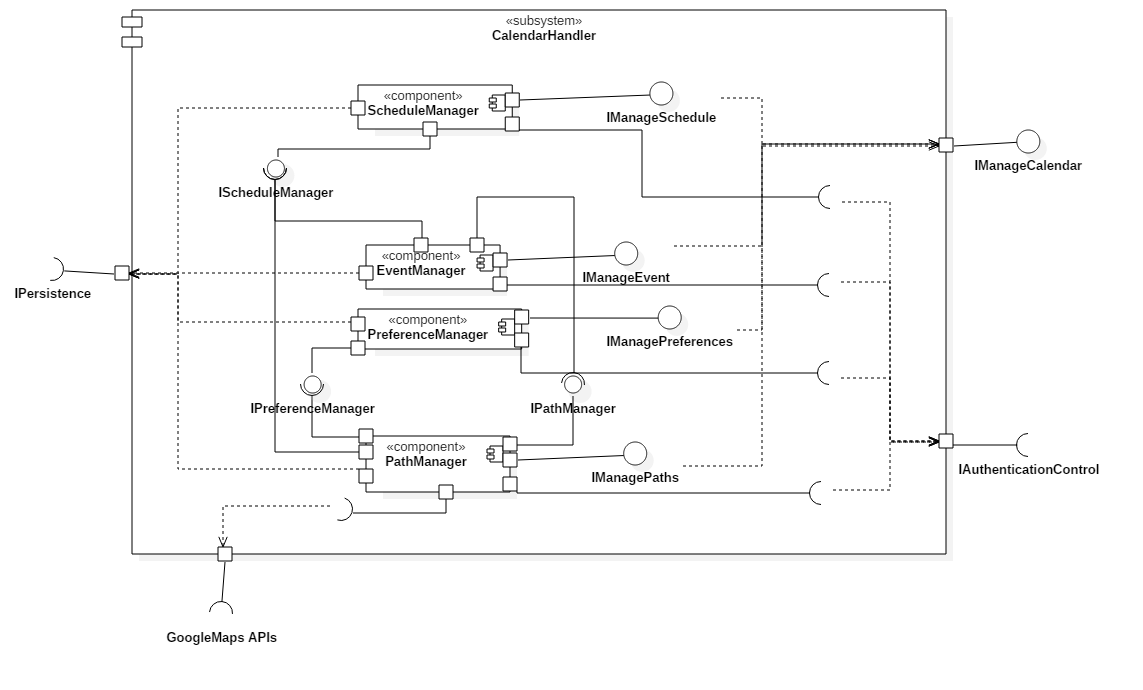
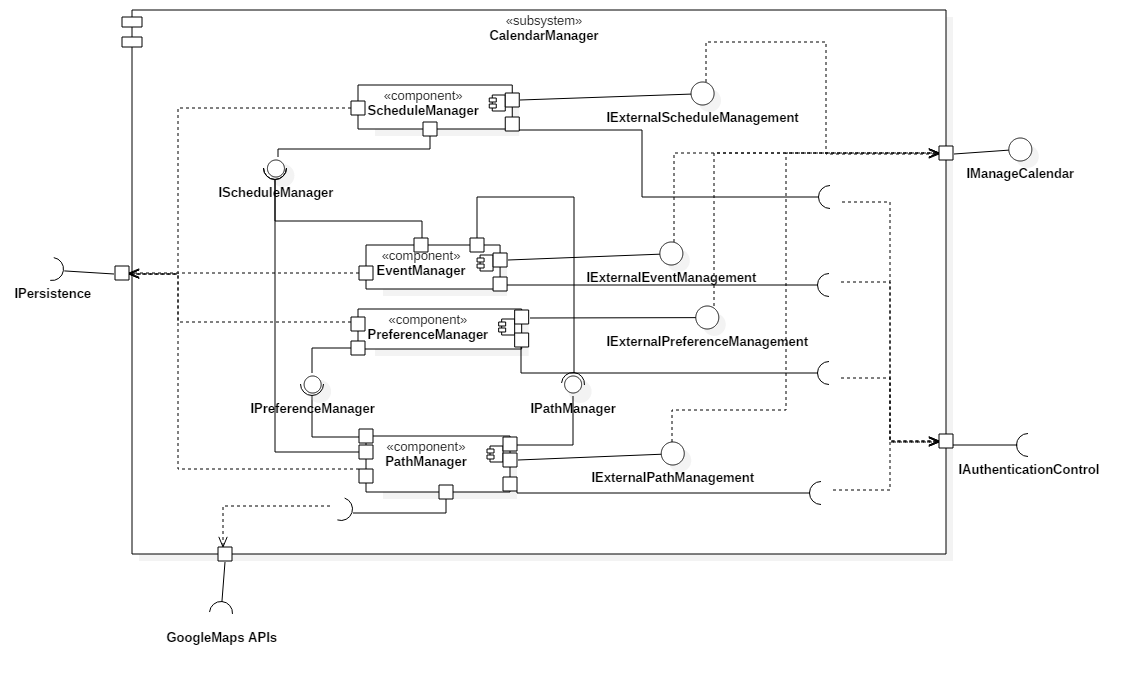
I&T diagrams

diff --git a/DD/6-ImplementationIntegrationTestPlan/implementation_integration_test_plan.tex b/DD/6-ImplementationIntegrationTestPlan/implementation_integration_test_plan.tex
@@ -5,7 +5,7 @@ These are the main steps of the implementations we want to follow to reach Travl
 \textbf{server side}:
 \end{large}
 \begin{enumerate}
-\item CalendarManager (AuthenticationManager, PathManager, EventManager, ScheduleManager) and PersistenceManager are the core of our system and so they are the first to be implemented among with their sub components. In particular in this phase the user will not be able to edit his travels but he can only visualize the proposed ones;
+\item CalendarManager (AuthenticationManager, PathManager, EventManager, ScheduleManager, but not PreferenceManager), PersistenceManager and AuthenticationManager are the core of our system and so they are the first to be implemented among with their sub components. In particular in this phase the user will not be able to edit his travels but he can only visualize the proposed ones;
 \item PreferenceManager will be inserted in a second release in order to filter the user paths and doing so will be added functionalities in order to allow the user to edit and choose the travels he prefer from the feasible ones proposed to him;
 \item ComplicationManager will be added together with the NotificationManager in order to discover if a users travel is no more feasible and notify him.
 \item TripManager will be the last module to be implemented, allowing the user to arrange his trips.
@@ -44,16 +44,119 @@ On Application Server side:
 \end{itemize}
 On client side (App Mobile):
 \begin{itemize}
-	\item DBManager needs to be integrated with the localDatabase;
+	\item DBManager needs to be integrated with the LocalDatabase;
 	\item ApplicationController, GUIManager and DBManager needs to be integrated together;
 \end{itemize}
 On web server side WebController and JavaServerPages needs to be integrated together.
 All the interactions that single components have with external services APIs have to be tested and their correctness have to be guaranteed before integrate and test phase involving those components begins.
 
 \section{Integration Testing Strategy}
-The integration testing strategy we will adopt will be defined in two different phases, according to the  implementation plan:
+The integration testing strategy we will adopt will be defined by a mix of two strategies and according to the  implementation plan:
 The first strategy we are going to use is based on a \textbf{bottom-up approach}. This choice will allow us to start from the less-dependent components and then climb the "uses" hierarchy, through the use of proper drivers. The bottom-up approach will enable us to follow the implementation plan, that follow the same approach. doing so we will improve the efficiency and the parallelism of the development process. \newline
-Once our system reach the first release milestone we will use a \textbf{thread approach} in order to integrate the the new functionalities with the already tested core thread of our system. We made this second choice because once we add new functionalities into the system they will provide additional user-visible program features that is the very definition of thread (in this context). 
-\section{Sequence of Components integration}
+The bottom-up strategy will be mixed with a \textbf{critical-module-first approach}, in order to start the integration and testing of the most critical module of our system, CalendarManager. We've considered also this second strategy in order to avoid issues related to core components of our system and threats to the correct behavior of our system, especially to guarantee the absence of failures or bugs that could prevent the users to correctly take advantage of our platform and its functionalities.
 
-\todo{TODO}
+\section{Sequence of Components integration}
+The following subsections aim to describe the order in which Travlendar+ will have to be integrated and tested. We will use as notation an arrow going from component A to component B means that component A is necessary to component B and so it must have been already implemented before performing the integration.
+
+\subsection{Software integration Sequence}
+Since our system rely on some external systems and interact with theirs external interfaces (APIs) we will assume that those system are already proper tested.
+\subsubsection{PersistenceManager}
+\begin{figure}[H]
+	\begin{center}
+		\includegraphics[scale=0.7]{implementation_and_testing/persistence.png}
+	\end{center}
+	\caption{I\&T-PersistenceManager}
+\end{figure}
+with db
+
+\subsubsection{AuthenticationManager}
+\begin{figure}[H]
+	\begin{center}
+		\includegraphics[scale=0.7]{implementation_and_testing/authentication.png}
+	\end{center}
+	\caption{I\&T-AuthenticationManager}
+\end{figure}
+with PersistenceManager
+
+\subsubsection{CalendarManager}
+\begin{figure}[H]
+	\begin{center}
+		\includegraphics[scale=0.7]{implementation_and_testing/calendar_manager/preference.png}
+	\end{center}
+	\caption{I\&T-PreferenceManager}
+\end{figure}
+
+\begin{figure}[H]
+	\begin{center}
+		\includegraphics[scale=0.7]{implementation_and_testing/calendar_manager/schedule.png}
+	\end{center}
+	\caption{I\&T-ScheduleManager}
+\end{figure}
+
+\begin{figure}[H]
+	\begin{center}
+		\includegraphics[scale=0.7]{implementation_and_testing/calendar_manager/path.png}
+	\end{center}
+	\caption{I\&T-PathManager}
+\end{figure}
+
+\begin{figure}[H]
+	\begin{center}
+		\includegraphics[scale=0.7]{implementation_and_testing/calendar_manager/event.png}
+	\end{center}
+	\caption{I\&T-EventManager}
+\end{figure}
+all with PersistenceManager (man mano)
+path with google maps
+schedule-path-event-preference
+all with Authentication
+
+\subsubsection{TripManager}
+\begin{figure}[H]
+	\begin{center}
+		\includegraphics[scale=0.7]{implementation_and_testing/trip.png}
+	\end{center}
+	\caption{I\&T-TripManager}
+\end{figure}
+PersistenceManager/TSP api
+
+\subsubsection{NotificationManager}
+\begin{figure}[H]
+	\begin{center}
+		\includegraphics[scale=0.7]{implementation_and_testing/notification.png}
+	\end{center}
+	\caption{I\&T-NotificationManager}
+\end{figure}
+GCM
+
+\subsubsection{ComplicationManager}
+\begin{figure}[H]
+	\begin{center}
+		\includegraphics[scale=0.7]{implementation_and_testing/complication.png}
+	\end{center}
+	\caption{I\&T-ComplicationManager}
+\end{figure}
+google maps/TSP/Weather/NotificationManager
+
+\subsubsection{WebServer}
+\begin{figure}[H]
+	\begin{center}
+		\includegraphics[scale=0.7]{implementation_and_testing/web.png}
+	\end{center}
+	\caption{I\&T-WebServer}
+\end{figure}
+web with JSP +polylines
+
+\subsubsection{AppMobile}
+\begin{figure}[H]
+	\begin{center}
+		\includegraphics[scale=0.7]{implementation_and_testing/app.png}
+	\end{center}
+	\caption{I\&T-AppMobile}
+\end{figure}
+local db/db manager
+db manager/gui with application controller
+GCM/Google polylines
+
+\subsection{Subsystems integration Sequence}
+google pol

diff --git a/DD/2-ArchitecturalDesign/2-component_view.tex b/DD/2-ArchitecturalDesign/2-component_view.tex
@@ -22,7 +22,6 @@ The main application server components are:
 
 \subsubsection{Calendar Manager}
 \label{subsubsect:Calendar Manager}
-\todo{TODO change CalendarHandler into CalendarManager into the image and maybe rename internal interfaces?}
 \begin{figure}[H]
 	\begin{center}
 		\hspace*{-60pt}
